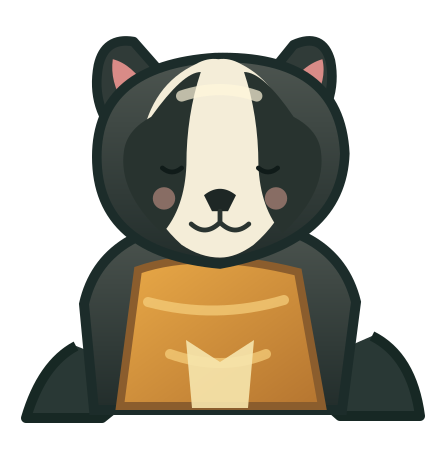
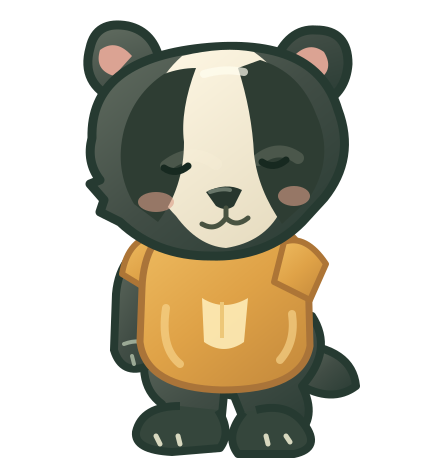
Give Bramble a rounded full-body stance and natural throwing paw

diff --git a/src/main.ts b/src/main.ts
@@ -10,7 +10,7 @@ import { consumeBooster, loadSave, recordLoss, recordWin, recordMastery, refillG
 import { restoreActiveRun, type RestoredRun, type RunAction } from './run';
 import type { ShotTrace } from './shot';
 import './style.css';
-import { brambleIdlePose, brambleMotionAllowed, brambleTossPose, giftReadout, nextBubblePoint } from './play-presentation';
+import { brambleIdlePose, brambleMotionAllowed, brambleTossPose, brambleArmJoint, brambleBodyPoint, giftReadout, nextBubblePoint } from './play-presentation';
 import { coaching, suggestShot } from './advice';
 import { activityLevel, activityUnlocked, bossPhases, challengeFor, type Activity } from './activities';
 import { recordActivityResult } from './activity-progress';
@@ -380,11 +380,11 @@ class PlayScene extends Phaser.Scene {
     this.brambleThrowMs = undefined;
     this.brambleSize = { width: 92, height: 96 };
     const ground = this.add.graphics();
-    ground.fillStyle(0x7a6845, .11).fillEllipse(127, 734, 84, 8);
+    ground.fillStyle(0x7a6845, .11).fillEllipse(brambleBodyPoint.x, 741, 72, 7);
     this.brambleArms = this.add.graphics();
-    this.bramble = this.add.image(127, 694, 'bramble-launcher').setDisplaySize(this.brambleSize.width, this.brambleSize.height);
-    this.blink = this.add.image(127, 694, 'bramble-launcher-blink').setDisplaySize(this.brambleSize.width, this.brambleSize.height).setVisible(false);
-    this.sceneryLayer.add([ground, this.brambleArms, this.bramble, this.blink]);
+    this.bramble = this.add.image(brambleBodyPoint.x, brambleBodyPoint.y, 'bramble-launcher').setDisplaySize(this.brambleSize.width, this.brambleSize.height);
+    this.blink = this.add.image(brambleBodyPoint.x, brambleBodyPoint.y, 'bramble-launcher-blink').setDisplaySize(this.brambleSize.width, this.brambleSize.height).setVisible(false);
+    this.sceneryLayer.add([ground, this.bramble, this.blink, this.brambleArms]);
     this.animateBramble(0);
     if (this.engine?.activity?.kind === 'boss') {
       this.monty = this.add.image(73, 555, 'magpie').setDisplaySize(110, 110);
@@ -724,7 +724,7 @@ class PlayScene extends Phaser.Scene {
     const idle = brambleIdlePose(this.brambleClock, this.brambleMotion);
     const toss = brambleTossPose(this.aimAngle, this.brambleThrowMs, reducedMotion.matches || menuOpen);
     const angle = idle.angle + toss.lean;
-    const center = { x: 127, y: 694 - idle.rise - toss.lift };
+    const center = { x: brambleBodyPoint.x, y: brambleBodyPoint.y - idle.rise - toss.lift };
     const width = this.brambleSize.width * idle.scaleX;
     const height = this.brambleSize.height * idle.scaleY;
     for (const image of [this.bramble, this.blink]) image.setPosition(center.x, center.y).setAngle(angle).setDisplaySize(width, height);
@@ -737,17 +737,38 @@ class PlayScene extends Phaser.Scene {
     };
     const arms = this.brambleArms;
     arms.clear();
-    const arm = (from: { x: number; y: number }, bend: { x: number; y: number }, paw: { x: number; y: number }, holding: boolean) => {
-      arms.lineStyle(13, 0x202e2b).beginPath().moveTo(from.x, from.y).lineTo(bend.x, bend.y).lineTo(paw.x, paw.y).strokePath();
-      arms.fillStyle(0x202e2b).fillCircle(bend.x, bend.y, 6.5).fillEllipse(paw.x, paw.y, holding ? 20 : 14, 13);
-      arms.lineStyle(9, 0x3d4b42).beginPath().moveTo(from.x, from.y).lineTo(bend.x, bend.y).lineTo(paw.x, paw.y).strokePath();
-      arms.fillStyle(0x3d4b42).fillCircle(bend.x, bend.y, 4.5).fillEllipse(paw.x, paw.y, holding ? 16 : 10, 9);
-      if (holding) {
-        arms.lineStyle(1.3, 0xcacdb5, .8).lineBetween(paw.x - 5, paw.y + 2, paw.x - 2, paw.y + 2).lineBetween(paw.x + 1, paw.y + 2, paw.x + 4, paw.y + 2);
-      }
+    const from = shoulder(157, 139);
+    const paw = { x: toss.handX, y: toss.handY };
+    const bend = brambleArmJoint(from, paw);
+    // Soft curved silhouettes, rather than the old two straight lever segments.
+    const shape = (path: Phaser.Curves.Path, color: number, outline: number, lineWidth = 1.7) => {
+      const points = path.getPoints(12);
+      arms.fillStyle(color).fillPoints(points, true);
+      arms.lineStyle(lineWidth, outline).strokePoints(points, true);
     };
-    arm(shoulder(48, 156), { x: 92, y: 722 - idle.rise }, { x: 86, y: 728 - idle.rise - toss.lift * .5 }, false);
-    arm(shoulder(173, 154), { x: 171, y: 719 - toss.lift }, { x: toss.handX, y: toss.handY }, true);
+    const upper = new Phaser.Curves.Path(from.x - 5, from.y - 4)
+      .cubicBezierTo(bend.x - 2, bend.y + 5, from.x - 7, from.y + 5, bend.x - 10, bend.y + 3)
+      .cubicBezierTo(bend.x + 4, bend.y - 6, bend.x + 6, bend.y + 7, bend.x + 7, bend.y - 1)
+      .cubicBezierTo(from.x - 5, from.y - 4, from.x + 10, from.y + 4, from.x + 7, from.y - 5);
+    shape(upper, 0x485647, 0x293c31);
+    const forearm = new Phaser.Curves.Path(bend.x - 3, bend.y - 5)
+      .cubicBezierTo(paw.x - 1, paw.y - 4, bend.x + 4, bend.y - 6, paw.x - 10, paw.y - 4)
+      .cubicBezierTo(paw.x + 10, paw.y, paw.x + 4, paw.y - 7, paw.x + 11, paw.y - 5)
+      .cubicBezierTo(paw.x - 6, paw.y + 5, paw.x + 11, paw.y + 6, paw.x + 1, paw.y + 6)
+      .cubicBezierTo(bend.x - 3, bend.y + 5, paw.x - 13, paw.y + 8, bend.x + 3, bend.y + 8)
+      .cubicBezierTo(bend.x - 3, bend.y - 5, bend.x - 7, bend.y + 3, bend.x - 7, bend.y - 2);
+    shape(forearm, 0x485647, 0x293c31);
+    // A short shirt sleeve overlaps the shoulder, anchoring the arm to the torso.
+    const sleeve = new Phaser.Curves.Path(from.x - 6, from.y - 6)
+      .cubicBezierTo(from.x + 11, from.y + 4, from.x + 2, from.y - 10, from.x + 8, from.y - 6)
+      .cubicBezierTo(from.x - 1, from.y + 7, from.x + 8, from.y + 8, from.x + 1, from.y + 8)
+      .cubicBezierTo(from.x - 6, from.y - 6, from.x - 5, from.y + 3, from.x - 7, from.y);
+    shape(sleeve, 0xe3a94f, 0xad7738, 1.2);
+    arms.lineStyle(1.5, 0x82917a, .6).lineBetween(bend.x + 3, bend.y + 1, paw.x - 9, paw.y + 1);
+    arms.lineStyle(1.2, 0xd7dbc1, .9)
+      .lineBetween(paw.x - 1, paw.y - 2, paw.x, paw.y + 1)
+      .lineBetween(paw.x + 4, paw.y - 2, paw.x + 5, paw.y + 1);
+
   }
 
   private land(): void {

diff --git a/src/play-presentation.test.ts b/src/play-presentation.test.ts
@@ -1,5 +1,5 @@
 import { describe, expect, it } from 'vitest';
-import { brambleIdlePose, brambleMotionAllowed, brambleTossPose, giftReadout, nextBubblePoint } from './play-presentation';
+import { brambleIdlePose, brambleMotionAllowed, brambleTossPose, brambleArmJoint, brambleBodyPoint, giftReadout, nextBubblePoint } from './play-presentation';
 import { launcherPoint, aimCancelRadius } from './aim-controls';
 import { GameEngine } from './engine';
 import { levels } from './levels';
@@ -76,5 +76,33 @@ describe('Bramble at the launcher', () => {
   });
   it('keeps the whole launch gesture still with reduced motion', () => {
     for (const angle of [-1, 0, 1]) for (const time of [0, 90, 180, 360]) expect(brambleTossPose(angle, time, true)).toEqual({ handX: 195, handY: 711, lean: 0, lift: 0 });
+  });
+});
+
+
+describe('Bramble’s full-body stance', () => {
+  it('stands closer to the bubble, leaving the unchanged launch and Next spaces open', () => {
+    expect(brambleBodyPoint).toEqual({ x: 143, y: 694 });
+    expect(launcherPoint).toEqual({ x: 195, y: 690 });
+    expect(brambleBodyPoint.x + 46).toBeLessThan(nextBubblePoint.x - 24);
+  });
+  it('keeps a bent elbow instead of a straight horizontal lever', () => {
+    const shoulder = { x: 163, y: 704 };
+    const elbow = brambleArmJoint(shoulder, { x: 195, y: 711 });
+    expect(elbow.x).toBeCloseTo(173.24);
+    expect(elbow.y).toBe(722);
+    expect(elbow.y).toBeGreaterThan(shoulder.y);
+    expect(elbow.y).toBeGreaterThan(711);
+  });
+  it('keeps both limb segments short through aim, release and recovery', () => {
+    for (const aim of [-1.25, 0, 1.25]) for (let time = 0; time <= 360; time += 20) {
+      const paw = brambleTossPose(aim, time);
+      const shoulder = { x: 163, y: 704 - paw.lift };
+      const elbow = brambleArmJoint(shoulder, { x: paw.handX, y: paw.handY });
+      expect(Math.hypot(elbow.x - shoulder.x, elbow.y - shoulder.y)).toBeLessThan(27);
+      expect(Math.hypot(paw.handX - elbow.x, paw.handY - elbow.y)).toBeLessThan(36);
+      expect(elbow.y).toBeGreaterThan(700);
+      expect(elbow.y).toBeLessThanOrEqual(724);
+    }
   });
 });

diff --git a/src/play-presentation.ts b/src/play-presentation.ts
@@ -1,5 +1,6 @@
 import { boosters, boosterById, type BoosterId } from './boosters';
 /** Presentation only: the shot origin and every board coordinate stay unchanged. */
+export const brambleBodyPoint = { x: 143, y: 694 };
 export const nextBubblePoint = { x: 314, y: 706 };
 export function giftReadout(inventory: Record<BoosterId, number>, unlocked: number, allowed: boolean, armed?: BoosterId): { text: string; label: string; equipped: boolean } {
   if (!allowed) return { text: 'Off', label: 'Open gifts, packed away for this challenge', equipped: false };
@@ -29,4 +30,9 @@ export function brambleTossPose(angle: number, elapsedMs?: number, reducedMotion
   return { handX: 195 - Math.sin(aim) * 10 + Math.sin(aim) * release * 6,
     handY: 711 - Math.abs(Math.sin(aim)) * 4 - release * 26,
     lean: aim * .7 + release * 3.5, lift: release * 2.5 };
+}
+
+/** A compact bent elbow keeps Bramble’s paw attached without a rigid reach. */
+export function brambleArmJoint(shoulder: { x: number; y: number }, paw: { x: number; y: number }): { x: number; y: number } {
+  return { x: shoulder.x + (paw.x - shoulder.x) * .32, y: shoulder.y + 18 - Math.max(0, 711 - paw.y) * .45 };
 }

diff --git a/README.md b/README.md
@@ -93,3 +93,5 @@ The play screen now separates the shooting dock from the board. A labeled Next b
 Bramble now keeps you company with a tiny breathing motion, gentle sway and occasional blink. He settles while you aim or open a menu, stays visible beside earned Bloom, and remains completely still with reduced motion enabled. The motion is visual only.
 
 The launcher companion now has a larger, full-body silhouette and articulated paws. Bramble cups the loaded bubble, follows your aiming direction, lifts his paw as you release, then returns to his ready pose. His visible motion never moves the real launch point, collision grid or next-bubble queue. Reduced motion keeps the companion in a still ready pose.
+
+A focused character pass gives the launcher Bramble a rounded full-body stance, separate feet, readable eyes and a compact jointed throwing arm. A short sleeve and curved furry paw keep the bubble visibly connected to him; aim, toss and recovery still affect artwork only.
